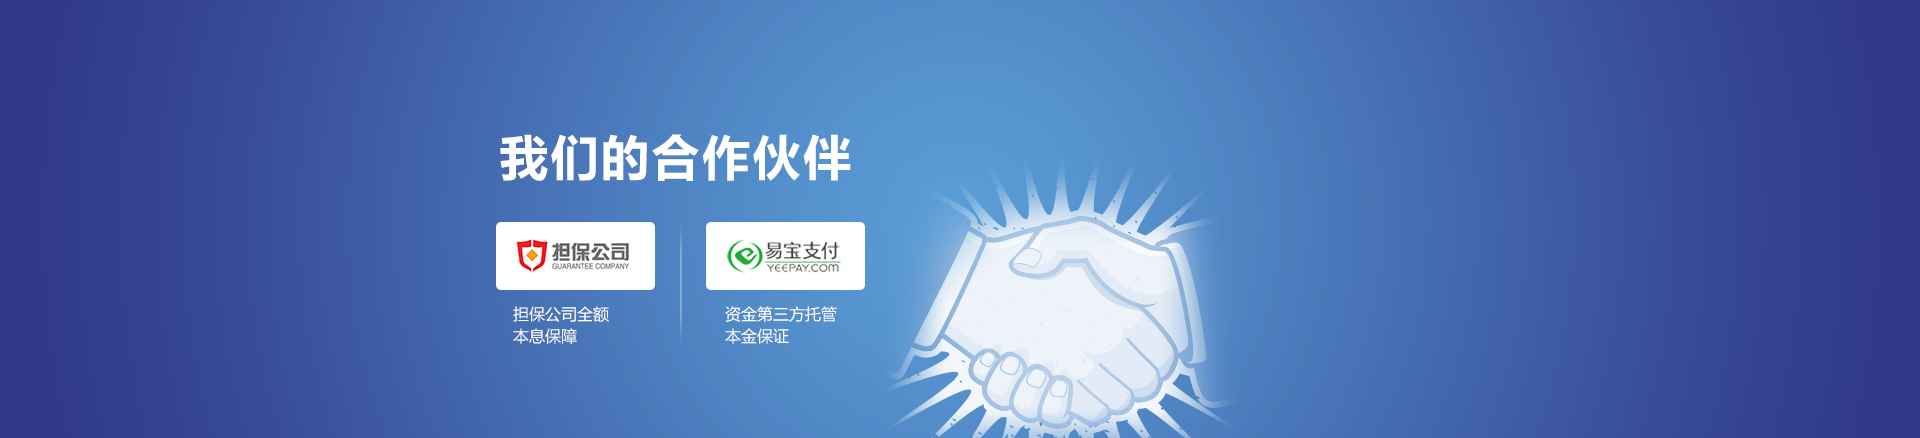
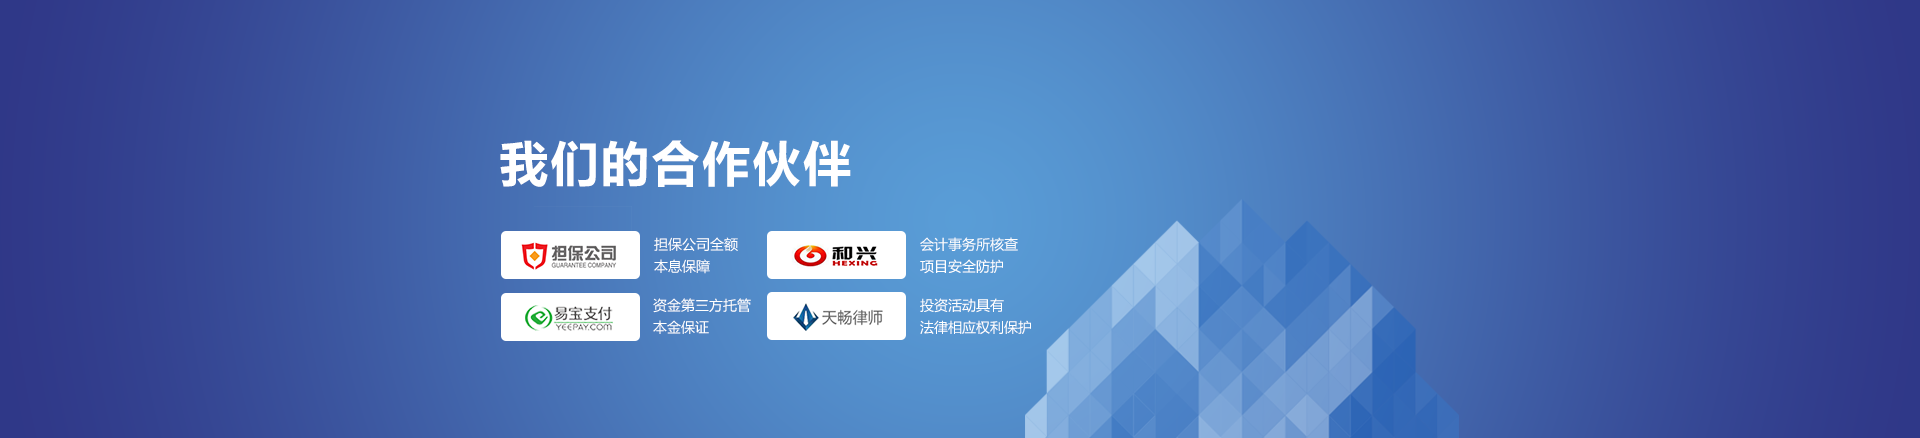
增加banner内容页

Changed region(s): [[0.25, 0.4155, 0.75, 1.0], [0.25, 0.2968, 0.4688, 0.4452]]

diff --git a/app/banner-fourty.html b/app/banner-fourty.html
@@ -1,0 +1,47 @@
+<!DOCTYPE HTML>
+<html class="no-js" lang="zh-cn">
+  <head>
+      <meta charset="utf-8">
+      <title>宏财网 hongcai.com - 要理财，上宏财!</title>
+      <base href="/">
+      <meta name="fragment" content="!">
+      <meta name="keywords" content="P2P, P2B, P2P网贷, P2B投资, P2P投资, 互联网金融, 宏财网, 投资理财, 高收益低风险, 安全理财"/>
+      <meta name="description" content="宏财网，高效、透明、增值、创新的互联网金融平台。严格的风控体系，100%本息担保，第三方资金托管，为用户提供全方位的安全理财服务。
+  ">
+      <meta name="renderer" content="webkit">    
+      <meta name="viewport" content="width=device-width, initial-scale=1">
+      <meta http-equiv="X-UA-Compatible" content="IE=edge">
+
+      <link rel="stylesheet" type="text/css" href="styles/banner.css">
+
+    <script src="bower_components/jquery/dist/jquery.js"></script>
+
+  </head>
+  <body>
+    <div class="banner-bg">
+      <img src="/images/banner-2.png">
+    </div>
+    <div class="main-title"> 
+      <div class="main-title-show">
+        
+      </div>
+    </div>
+    <div class="mian-area">
+      <div class="main-area-show">
+        
+      </div>
+      <div class="main-area-show">
+        
+      </div>
+      <div class="main-area-show">
+        
+      </div>
+      <div class="main-area-show">
+        
+      </div>
+      <div class="main-area-show">
+        
+      </div>
+    </div>
+  </body>
+</html>

diff --git a/app/banner-partner.html b/app/banner-partner.html
@@ -1,0 +1,28 @@
+<!DOCTYPE HTML>
+<html class="no-js" lang="zh-cn">
+  <head>
+      <meta charset="utf-8">
+      <title>宏财网 hongcai.com - 要理财，上宏财!</title>
+      <base href="/">
+      <meta name="fragment" content="!">
+      <meta name="keywords" content="P2P, P2B, P2P网贷, P2B投资, P2P投资, 互联网金融, 宏财网, 投资理财, 高收益低风险, 安全理财"/>
+      <meta name="description" content="宏财网，高效、透明、增值、创新的互联网金融平台。严格的风控体系，100%本息担保，第三方资金托管，为用户提供全方位的安全理财服务。
+  ">
+      <meta name="renderer" content="webkit">    
+      <meta name="viewport" content="width=device-width, initial-scale=1">
+      <meta http-equiv="X-UA-Compatible" content="IE=edge">
+
+      <link rel="stylesheet" type="text/css" href="styles/banner.css">
+
+    <script src="bower_components/jquery/dist/jquery.js"></script>
+
+  </head>
+  <body>
+    <div class="banner-bg">
+      <img src="/images/banner-5.png">
+    </div>
+    <div>
+      
+    </div>
+  </body>
+</html>

diff --git a/app/scripts/controller/main/main-ctrl.js b/app/scripts/controller/main/main-ctrl.js
@@ -46,11 +46,11 @@ hongcaiApp.controller('MainCtrl', ['$scope', '$stateParams', '$rootScope', '$loc
 
 
     $scope.media = [
-      {mimeType: 'image/png', src:'images/banner-1.png', href:'' },
-      {mimeType: 'image/png', src:'images/banner-2.png', href:'' },
+      {mimeType: 'image/png', src:'images/banner-1.png', href:'/project-sponsorInstitution/137' },
+      {mimeType: 'image/png', src:'images/banner-2.png', href:'banner-fourty.html' },
       {mimeType: 'image/png', src:'images/banner-3.png', href:'banner-nine.html'},
-      {mimeType: 'image/png', src:'images/banner-4.png', href:'' },
-      {mimeType: 'image/png', src:'images/banner-5.png', href:'' }
+      {mimeType: 'image/png', src:'images/banner-4.png', href:'/project-activity-group' },
+      {mimeType: 'image/png', src:'images/banner-5.png', href:'banner-partner.html' }
     ];
     $scope.slickConfig = {
       dots: true,

diff --git a/app/scripts/controller/user-center/security-settings-ctrl.js b/app/scripts/controller/user-center/security-settings-ctrl.js
@@ -49,6 +49,7 @@ hongcaiApp.controller('SecuritySettingsCtrl', ['$scope', '$state', '$rootScope',
     $scope.bindEmail = function(email){
         UserCenterService.bindEmail.get({email: email},function(response){
             if (response.ret == 1){
+                alert("操作成功！");
                 $scope.email = email.substr(0,2) + '****' + email.substr(email.indexOf('@'));
                 $scope.changeEmail = false;
                 $scope.newEmail = null;
